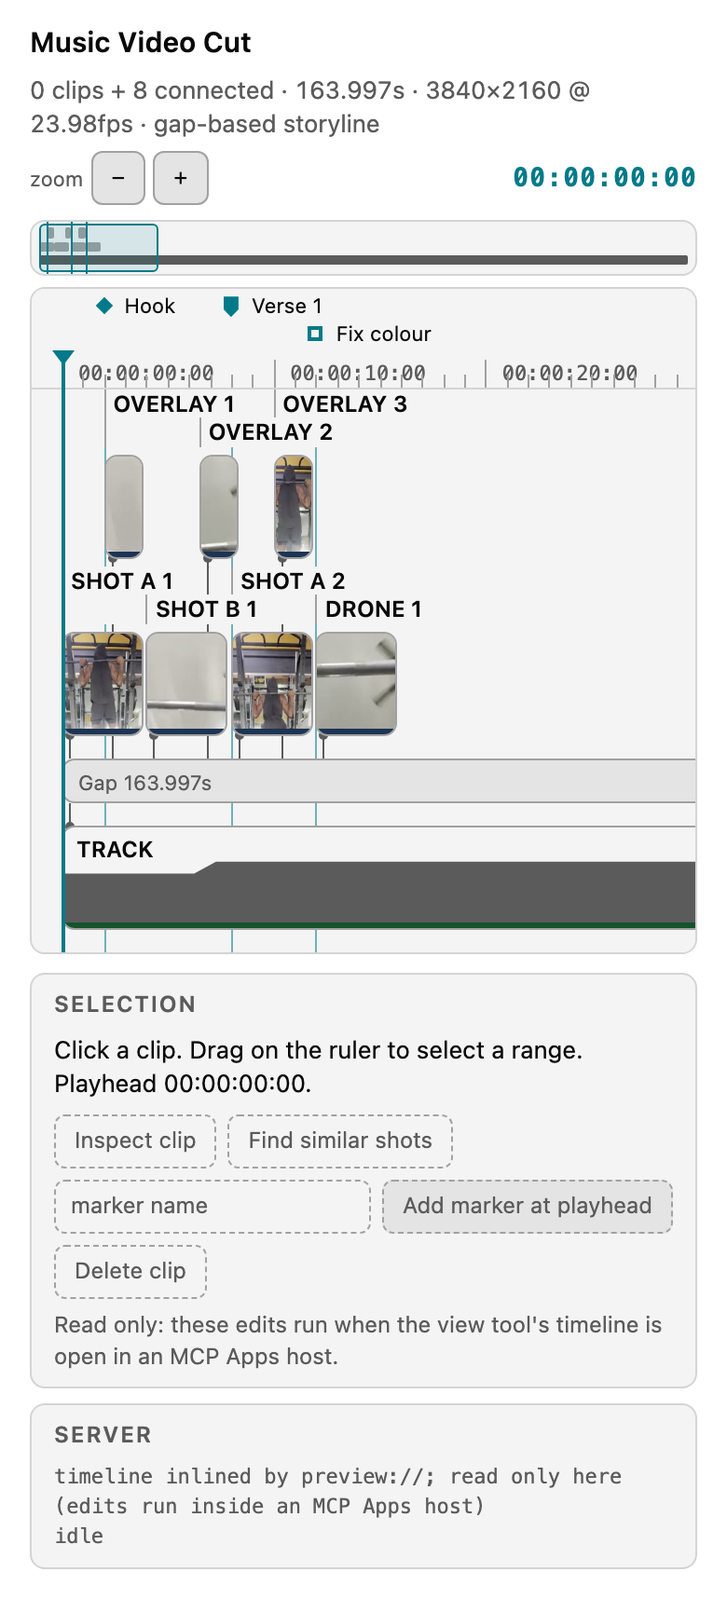
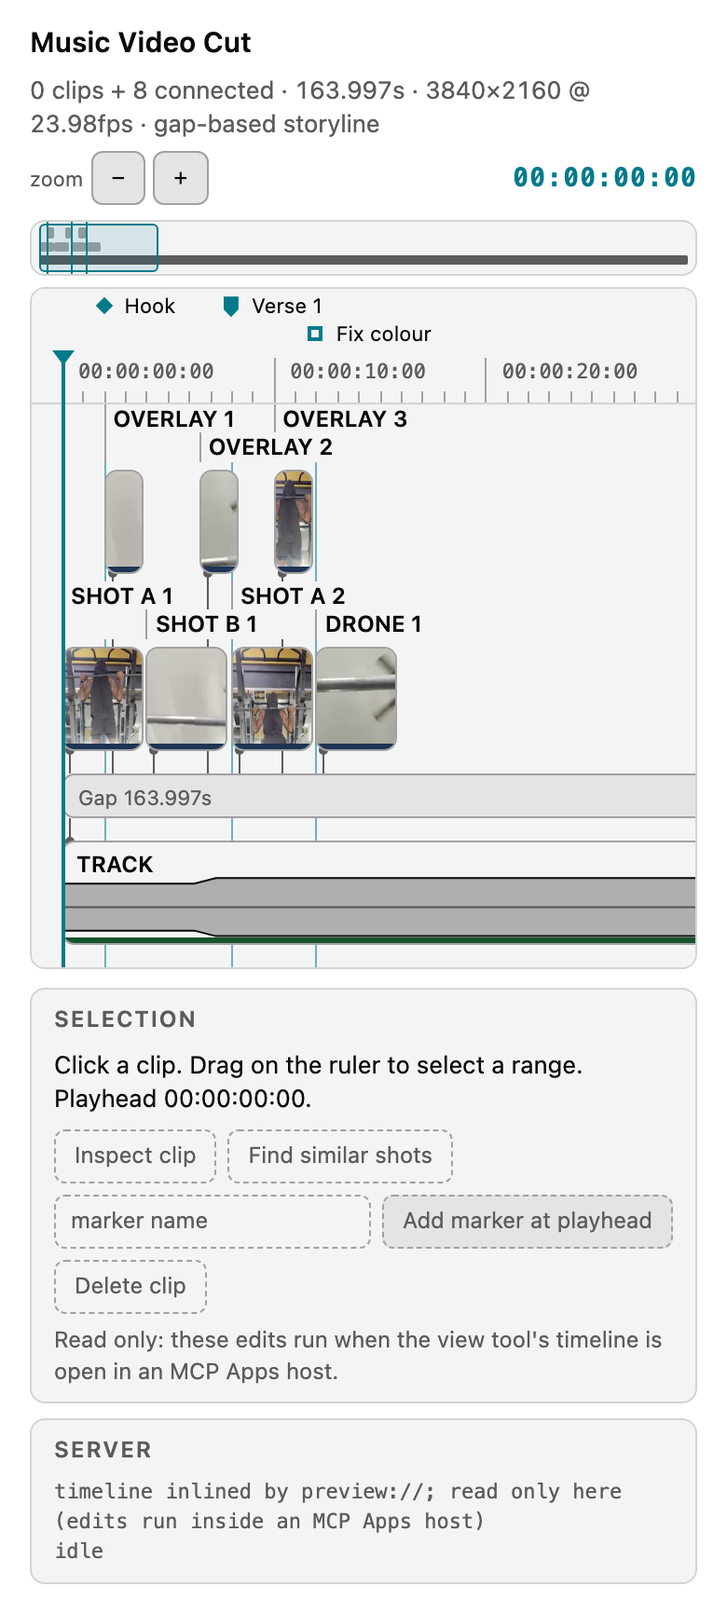
docs: 0.34 round 2, re-shot every frame, CHANGELOG, README, counts
- docs/screenshots/2026-11-15_034-*: all sixteen frames re-shot after the
  round-2 fixes from the same headless harness (CMUX_PREVIEW stubbed, paths
  rewritten to /fcp-demo, shot_guard clean); docs/assets/timeline-preview.png
  (the README's preview:// picture) re-shot too.
- CHANGELOG 0.34.0: the ruler's own tick band, a marker glyph never
  without its name, the waveform over the filmstrip's foot as an outlined
  shape; the three gates and their mutations; the empty-band gate's scope
  (clips with a picture) under Not done. The PR #44 notes stay inside
  0.34.0; no Unreleased heading is left.
- README: the app section describes the waveform and the marker rule.
- CLAUDE.md: test counts re-measured on four variants (2906 tests).

Claude-Session: https://claude.ai/code/session_01Majkfyw52xXpeyZZPHZGD2

diff --git a/CLAUDE.md b/CLAUDE.md
@@ -321,7 +321,7 @@ CI runs both on every push to main. If either fails, the commit gets an X on Git
 
 ## Testing
 
-2871 tests across 105 files (measured 2026-11-15 on v0.34.0, Final Cut Pro 12.4 present: 2863 pass / 8 skip on mcp 2.3.0 and 2860 pass / 11 skip on mcp 1.28.1, both with Pillow and Playwright's Chromium and `FCP_MCP_REQUIRE_BROWSER=1`, ffmpeg 9.0.1; 2749 pass / 13 skip on ffmpeg 6.1.6 via `scripts/test-ffmpeg6.sh`, without Playwright, where `test_app_glance.py`, `test_app_labels.py`, `test_app_motion.py` and `test_hero_assets.py` skip as modules; with `FCP_MCP_INDEX=off` 2839 pass / 32 skip, the skips being tests OF the cache). v0.34.0 adds `test_app_glance.py` (25, replaces `test_app_directions.py`; CI's `rendered-labels` job runs it): the one look on the three fixtures (gym, music video with three markers on its gap, `demo/fixtures/interview.py`) at 1440/430/390: no visible name under 4 characters, none cut, no two texts overlapping, the median clip >= 44 px, the overview spanning the whole cut, no sideways page, cyan text only on the record time, the track area >= 35% of the page at 1440, clip heights by lane type, the middle ellipsis, the tap sheet, the snap, role stripes in Final Cut's colours, waveforms, the four marker glyphs, the flash, theme tokens for preview:// (OS) and for the app in a stand-in host (host theme, OS, change notification), the payload drawn from `structuredContent`; each gate broken once inside the module (11 mutations in 10 `*_red` tests). `test_view_budget.py` (8, no browser): through the registered tools/call handler on the installed SDK, the five-clip text under 2,000 characters with no picture, the interview payload under 700,000 bytes, peaks cached in the index and identical with it off; red on the 0.33 reply, a full-rate waveform, a reader that skips the index. `test_diagnose_order.py` (4): the Issues table FAIL/WARN/INFO and a lane clip's flash at its timeline_start, each with its mutation. `test_proofs.py` gained the silence-label-inside-its-span and flash-badge gates with mutations; `test_palette.py` runs `scripts/fcp_role_colours.m` against Final Cut when it and clang are installed. v0.33.0 adds `test_media_clock.py` (62, #45): the issue's repro; every writer read back through the parser to the same FILE frames with and without a tmcd track at 30, 29.97 NDF/DF and 23.976; a clock off the sequence grid never snapped before the file; Sony/Matroska timecode found and not used; missing media and no ffprobe; a Chinese folder with a space, DTD-valid; the validator's Media clock FAIL/WARN/PASS/not-judged/not-measured rows, one probe per file; `src` on insert/connected clips; exact source starts; drop-frame labels both ways. 41 mutations, each red (2026-11-14; script kept outside the repo); suite 2692 pass / 9 skip on ffmpeg 9.0.1 and on 6.1.6, 2668 / 33 with FCP_MCP_INDEX=off, in a venv without Playwright or Pillow. v0.32.0 adds `test_proofs.py`: every gate reads the OUTPUT and compares it with a truth computed in the test (its own timecode function, the PARSED timeline): each sheet cell's record and source timecodes read back off the PNG (the phone page also at its delivered 390 px), both burn lines of all 724 frames of the burned gym proxy against the clips on screen ("Bench (L1) over Squat"), every check thumbnail against the ruler drawn under it, every ruler tick to 1 px on every row it claims, the removed frames and the cut pair, the cut's out- and in-point each read through its own band's drawn ruler, no label within 8 px of a line or mark, the padding read from the edit, every range in-out with its length, the dB waveform and its labelled scale, one clip count across three outputs, the picture-flash at 00:00:20:03, the 14 px / 1568 px / 12-cell rule, burn-before-verify failing the lane instrument on a bottom-left quarter PiP, a frame decoded by index (testsrc2) to prove the shown frame is the named one, image blocks present and under the cap through `server.call_tool` on both SDKs, no collisions, no truncation, red only for failure; it builds `demo/fixtures/gym_session.py` once per module with the journal and index off and restored after. `test_visual.py` was rewritten for the banded check and `test_preview.py` for the inlined page; `test_app_labels.py` holds the page's fit, every clip named (inside or on its rail) and the read-only controls (the clip numbers and the key went with the 0.32 look in 0.34). conftest.py stubs the cmux preview hook for every test. 158 mutations, each red (2026-11-13; 40 of them also on mcp 2.3.0); the round-4 script and logs are kept outside the repo with the gauntlet. `test_hero_assets.py` decodes the hero MP4's first frame with ffmpeg and requires the finished cut; since round 6 it also holds the composed stage (no hold over 1.5 s, a seamless loop, no dissolve between held pictures, the recorder's own coverage and type numbers), and since round 7 the read time (every caption's hold, read off the MP4's caption band), the GIF's one-frame holds, and `hero-run.json` (the close-up and the unedited recording are the same run: same notes, results and thumbnails, each file's sha256 recorded); `demo/hero/record.js` refuses the per-frame gates itself (doubled, dropped or clipped names, stretched thumbnails, coverage, measured type, caption holds, the split's frame count, the push range, a clip count that jumps without motion), and `build.py`'s `tie()` refuses two recordings that showed different runs. `test_front_door.py` pins the frozen social card and logo by sha256: changing one is a deliberate act that updates the pin. Mutation runs go with PYTHONDONTWRITEBYTECODE=1: a same-length mutation restored within the same second leaves a .pyc of the mutated source that Python still trusts. `test_app_labels.py` renders the app and the preview:// page in headless Chromium and fails on any cut or needlessly hidden label; CI's `rendered-labels` job installs the browser and sets `FCP_MCP_REQUIRE_BROWSER=1` so it cannot skip there. `test_sequence_duration.py` holds the ripple-shortens-the-sequence fix. v0.31.0 adds `test_palette.py` (every colour in a surface file is a token of `fcpxml/palette.py`, tokens are grey/cyan/red, text pairs at 4.5:1 in both modes, the rendered app and preview:// carry only tokens, three README badges on the tokens), `test_schema_budget.py` (the advertised schema, 30,714 characters, may not grow; a shrink of more than 500 asks for the budget to be lowered), `test_front_door.py` (the old tagline, name, Omni model and card version at zero outside CHANGELOG.md; one display name), `test_pypi_readme.py` (the publish-time rewrite and the check of the BUILT description), the price table's sources and 45-day age in `test_gen.py`, and `view`'s summary agreeing with `diagnose` in `test_view_group.py`; each guard was broken in the real code once and seen red (2026-11-12). v0.30.0 adds `test_preview_audio.py`: loudness measured at chosen instants of the rendered file (each clip heard at its time, a gap silent, an audio lane from its offset, -96 dB silent, a `<video>` element silent) with a mutation check that a clip moved to 0s reads as silence where it belongs. Run `scripts/test-ffmpeg6.sh` before pushing anything that touches the filtergraph: ffmpeg 6.1 is CI's build and it has already behaved differently from 9.x once. v0.29.0 adds `test_asset_clock.py`: one 8s clip written with and without a 01:00:00:00 timecode track must give the same answer from silence detect/remove, scene detect/split, transcript edits, find_shots, find_to_timeline (in-points written on the asset clock), the view payload and gen's frame; mutation-checked (9 fail with the origin ignored). v0.28.0 adds `test_preview_truth.py`: John Palchak's three preview_render cases rebuilt in Final Cut's own shapes through the real parser and ffmpeg (a transition longer than its neighbour, a PNG still alone on the spine, lanes on a trimmed parent and on a 3600s gap), plus timecoded media, a mid-timeline gap, a clip past the end of its file, an audio-only spine clip, a missing head handle, a transformed PiP, mixed clip shapes (the "Nothing was written" error, which FAILS on 0.27.2), the lane instrument run against a render without the lane, an empty render refused, drift past a frame unverified, and the fallback ladder. Each guard was mutation-checked (2026-11-02). `test_filtergraph.py` now asserts the handle model (xfade at the transition's own start, no change to total) instead of the old overlap. v0.27.1 adds `test_live_bundle_push.py` (a `.fcpxmld` push carries its library location in the copied bundle's `Info.fcpxml` with sidecars intact, the autopush shape gets a temp copy, bundle verification reads `Info.fcpxml`, the read-back refusal and the blocked-Apple-event message, each mutation-checked). v0.27.0 adds `test_effect_registry.py` (every transition uid read against Final Cut's own `Filters.bundle` plugin list when the app is installed, with a mutation check that a fabricated uid fails it) and `test_fcp_import_refusals.py` (the #31-#34 repros verbatim: handle refusals that write nothing, the validator's handle check including an off-centre transition, rough-cut transitions DTD-valid and skipped-and-reported without media, assets copied whole with their format, anchored offsets on the parent's clock read back through the parser). v0.26.0 adds `test_timeline_app.py` (the `ui://` resource's MIME type through the real handler on both SDKs, `_meta.ui.resourceUri` on the wire, the payload round-tripping both fixtures as Fractions, marker clocks, word clipping, thumbnail bounds, no external URLs in the shell), `test_view_group.py`, `test_gen.py` (prices, the gate and its refusals, the key guards with mutation checks, both adapters against a fake transport, the probe on synthesized media, the insert on a DTD-valid fixture validated with xmllint when the DTD is present), `test_gen_group.py` (end to end with a fake provider: journal rows, redaction with its mutation check, sandboxed writes) and `test_project_guard.py` (mismatch refuses before the review gate, the sha256 footer, `analyze_timeline` and `history` report it, mutation check). v0.24.0 adds `test_gap_reporting.py` (the reporting tools and the preview on a gap-based edit, each with a spine-based control, plus the sub-frame silence floor). v0.23.0 adds `test_gap_multicam.py` (issue #23: mc-clip/caption under a gap spine, `<media>` angle resolution via `mc-source`, timeline_start against the gap's local clock, the `media_clips()` view, and that `detect_media_silence`/`detect_scenes` open the angle files). v0.20.0 adds transition and lane coverage to `test_filtergraph.py` (xfade placement, the unplaceable/missing/occupied/shortened reports, the crossfade-shifted overlay window, lane stacking order) and to `test_render.py` (real ffmpeg accepts both chains; the overlaid frame is compared against the same frame of a spine-only render, so a graph that composites nothing fails). v0.19.0 adds `test_journal.py` + `test_journal_wiring.py` (hash-checked undo, never-deletes, one ledger per folder), `test_review_gate.py`, `test_organize.py` + `test_organize_group.py` (DTD order of inserted `<keyword>`/`<rating>`, organize_auto never computes), `test_diversity_constraint.py` (with its mutation check), `test_find.py`, `test_vlm.py` (fake `mlx_vlm` records the env at import; sockets patched to raise) and `test_find_group.py` (never transcribes, never downloads, live captions stored once). v0.18.0 adds `test_index.py` (schema, invalidation on a touched source, corrupt-file rebuild, dir mode 700), `test_index_wiring.py` (second call skips ffmpeg/whisper; index off hits them every time), `test_index_group.py`, `test_progress.py` (both SDKs), `test_scenes.py` + `test_scenes_group.py` (synthesised colour-bar clips; real PySceneDetect when installed), `test_transcript_pack.py` + `test_transcript_pack_handler.py`, `test_transcribe_scribe.py` (urlopen patched throughout; the key-leak guard is mutation-checked), and `test_version.py`. Beyond the pre-existing suites, v0.17.0 added: `test_filtergraph.py` (Timeline -> ffmpeg graph, exact Fractions at NTSC rates, the Clip/.start vs ConnectedClip/.offset distinction, transition substitution reporting), `test_render.py` (proxy render plus the artifact duration read-back and its mutation check), `test_visual.py` (filmstrip+waveform from source media, silent-source fallback, and the mutation check that caught the invisible white-on-white waveform), `test_watchfolder.py` (export detection, content digesting, bundle handling), `test_bridges.py` (loopback-only probing, session caching, describe() honesty), `test_preview_group.py` and `test_watch_group.py` (MCP wiring, UNVERIFIED labelling), `test_edl_import.py` (the real video-use schema, round-tripped against the literal from their own test file), `test_autopush.py`, and `test_tool_seam.py` (the tools/ registry, the merge guard, and the server binding). Tests use `examples/sample.fcpxml` and `examples/music-video.fcpxml` as fixture data plus inline XML and synthesised ffmpeg media. Tests create temp files and clean up after.
+2906 tests across 105 files (measured 2026-11-15 on v0.34.0 after the gatekeeper's round 2, Final Cut Pro 12.4 present: 2898 pass / 8 skip on mcp 2.3.0 and 2895 pass / 11 skip on mcp 1.28.1, both with Pillow and Playwright's Chromium and `FCP_MCP_REQUIRE_BROWSER=1`, ffmpeg 9.0.1; 2749 pass / 13 skip on ffmpeg 6.1.6 via `scripts/test-ffmpeg6.sh`, without Playwright, where `test_app_glance.py`, `test_app_labels.py`, `test_app_motion.py` and `test_hero_assets.py` skip as modules; with `FCP_MCP_INDEX=off` 2874 pass / 32 skip, the skips being tests OF the cache). v0.34.0 adds `test_app_glance.py` (32, replaces `test_app_directions.py`; CI's `rendered-labels` job runs it): the one look on the three fixtures (gym, music video with three markers on its gap, `demo/fixtures/interview.py`) at 1440/430/390: no visible name under 4 characters, none cut, no two texts overlapping, the median clip >= 44 px, the overview spanning the whole cut, no sideways page, cyan text only on the record time, the track area >= 35% of the page at 1440, clip heights by lane type, the middle ellipsis, the tap sheet, the snap, role stripes in Final Cut's colours, waveforms, the four marker glyphs, the flash, theme tokens for preview:// (OS) and for the app in a stand-in host (host theme, OS, change notification), the payload drawn from `structuredContent`; and (round 2) every ruler time 2 px clear of every tick, every visible marker glyph with its whole name, no band of one flat colour across a picture clip's body; each gate broken once inside the module (14 mutations in 13 `*_red` tests; the flash test is not one). `test_view_budget.py` (8, no browser): through the registered tools/call handler on the installed SDK, the five-clip text under 2,000 characters with no picture, the interview payload under 700,000 bytes, peaks cached in the index and identical with it off; red on the 0.33 reply, a full-rate waveform, a reader that skips the index. `test_diagnose_order.py` (4): the Issues table FAIL/WARN/INFO and a lane clip's flash at its timeline_start, each with its mutation. `test_proofs.py` gained the silence-label-inside-its-span and flash-badge gates with mutations; `test_palette.py` runs `scripts/fcp_role_colours.m` against Final Cut when it and clang are installed. v0.33.0 adds `test_media_clock.py` (62, #45): the issue's repro; every writer read back through the parser to the same FILE frames with and without a tmcd track at 30, 29.97 NDF/DF and 23.976; a clock off the sequence grid never snapped before the file; Sony/Matroska timecode found and not used; missing media and no ffprobe; a Chinese folder with a space, DTD-valid; the validator's Media clock FAIL/WARN/PASS/not-judged/not-measured rows, one probe per file; `src` on insert/connected clips; exact source starts; drop-frame labels both ways. 41 mutations, each red (2026-11-14; script kept outside the repo); suite 2692 pass / 9 skip on ffmpeg 9.0.1 and on 6.1.6, 2668 / 33 with FCP_MCP_INDEX=off, in a venv without Playwright or Pillow. v0.32.0 adds `test_proofs.py`: every gate reads the OUTPUT and compares it with a truth computed in the test (its own timecode function, the PARSED timeline): each sheet cell's record and source timecodes read back off the PNG (the phone page also at its delivered 390 px), both burn lines of all 724 frames of the burned gym proxy against the clips on screen ("Bench (L1) over Squat"), every check thumbnail against the ruler drawn under it, every ruler tick to 1 px on every row it claims, the removed frames and the cut pair, the cut's out- and in-point each read through its own band's drawn ruler, no label within 8 px of a line or mark, the padding read from the edit, every range in-out with its length, the dB waveform and its labelled scale, one clip count across three outputs, the picture-flash at 00:00:20:03, the 14 px / 1568 px / 12-cell rule, burn-before-verify failing the lane instrument on a bottom-left quarter PiP, a frame decoded by index (testsrc2) to prove the shown frame is the named one, image blocks present and under the cap through `server.call_tool` on both SDKs, no collisions, no truncation, red only for failure; it builds `demo/fixtures/gym_session.py` once per module with the journal and index off and restored after. `test_visual.py` was rewritten for the banded check and `test_preview.py` for the inlined page; `test_app_labels.py` holds the page's fit, every clip named (inside or on its rail) and the read-only controls (the clip numbers and the key went with the 0.32 look in 0.34). conftest.py stubs the cmux preview hook for every test. 158 mutations, each red (2026-11-13; 40 of them also on mcp 2.3.0); the round-4 script and logs are kept outside the repo with the gauntlet. `test_hero_assets.py` decodes the hero MP4's first frame with ffmpeg and requires the finished cut; since round 6 it also holds the composed stage (no hold over 1.5 s, a seamless loop, no dissolve between held pictures, the recorder's own coverage and type numbers), and since round 7 the read time (every caption's hold, read off the MP4's caption band), the GIF's one-frame holds, and `hero-run.json` (the close-up and the unedited recording are the same run: same notes, results and thumbnails, each file's sha256 recorded); `demo/hero/record.js` refuses the per-frame gates itself (doubled, dropped or clipped names, stretched thumbnails, coverage, measured type, caption holds, the split's frame count, the push range, a clip count that jumps without motion), and `build.py`'s `tie()` refuses two recordings that showed different runs. `test_front_door.py` pins the frozen social card and logo by sha256: changing one is a deliberate act that updates the pin. Mutation runs go with PYTHONDONTWRITEBYTECODE=1: a same-length mutation restored within the same second leaves a .pyc of the mutated source that Python still trusts. `test_app_labels.py` renders the app and the preview:// page in headless Chromium and fails on any cut or needlessly hidden label; CI's `rendered-labels` job installs the browser and sets `FCP_MCP_REQUIRE_BROWSER=1` so it cannot skip there. `test_sequence_duration.py` holds the ripple-shortens-the-sequence fix. v0.31.0 adds `test_palette.py` (every colour in a surface file is a token of `fcpxml/palette.py`, tokens are grey/cyan/red, text pairs at 4.5:1 in both modes, the rendered app and preview:// carry only tokens, three README badges on the tokens), `test_schema_budget.py` (the advertised schema, 30,714 characters, may not grow; a shrink of more than 500 asks for the budget to be lowered), `test_front_door.py` (the old tagline, name, Omni model and card version at zero outside CHANGELOG.md; one display name), `test_pypi_readme.py` (the publish-time rewrite and the check of the BUILT description), the price table's sources and 45-day age in `test_gen.py`, and `view`'s summary agreeing with `diagnose` in `test_view_group.py`; each guard was broken in the real code once and seen red (2026-11-12). v0.30.0 adds `test_preview_audio.py`: loudness measured at chosen instants of the rendered file (each clip heard at its time, a gap silent, an audio lane from its offset, -96 dB silent, a `<video>` element silent) with a mutation check that a clip moved to 0s reads as silence where it belongs. Run `scripts/test-ffmpeg6.sh` before pushing anything that touches the filtergraph: ffmpeg 6.1 is CI's build and it has already behaved differently from 9.x once. v0.29.0 adds `test_asset_clock.py`: one 8s clip written with and without a 01:00:00:00 timecode track must give the same answer from silence detect/remove, scene detect/split, transcript edits, find_shots, find_to_timeline (in-points written on the asset clock), the view payload and gen's frame; mutation-checked (9 fail with the origin ignored). v0.28.0 adds `test_preview_truth.py`: John Palchak's three preview_render cases rebuilt in Final Cut's own shapes through the real parser and ffmpeg (a transition longer than its neighbour, a PNG still alone on the spine, lanes on a trimmed parent and on a 3600s gap), plus timecoded media, a mid-timeline gap, a clip past the end of its file, an audio-only spine clip, a missing head handle, a transformed PiP, mixed clip shapes (the "Nothing was written" error, which FAILS on 0.27.2), the lane instrument run against a render without the lane, an empty render refused, drift past a frame unverified, and the fallback ladder. Each guard was mutation-checked (2026-11-02). `test_filtergraph.py` now asserts the handle model (xfade at the transition's own start, no change to total) instead of the old overlap. v0.27.1 adds `test_live_bundle_push.py` (a `.fcpxmld` push carries its library location in the copied bundle's `Info.fcpxml` with sidecars intact, the autopush shape gets a temp copy, bundle verification reads `Info.fcpxml`, the read-back refusal and the blocked-Apple-event message, each mutation-checked). v0.27.0 adds `test_effect_registry.py` (every transition uid read against Final Cut's own `Filters.bundle` plugin list when the app is installed, with a mutation check that a fabricated uid fails it) and `test_fcp_import_refusals.py` (the #31-#34 repros verbatim: handle refusals that write nothing, the validator's handle check including an off-centre transition, rough-cut transitions DTD-valid and skipped-and-reported without media, assets copied whole with their format, anchored offsets on the parent's clock read back through the parser). v0.26.0 adds `test_timeline_app.py` (the `ui://` resource's MIME type through the real handler on both SDKs, `_meta.ui.resourceUri` on the wire, the payload round-tripping both fixtures as Fractions, marker clocks, word clipping, thumbnail bounds, no external URLs in the shell), `test_view_group.py`, `test_gen.py` (prices, the gate and its refusals, the key guards with mutation checks, both adapters against a fake transport, the probe on synthesized media, the insert on a DTD-valid fixture validated with xmllint when the DTD is present), `test_gen_group.py` (end to end with a fake provider: journal rows, redaction with its mutation check, sandboxed writes) and `test_project_guard.py` (mismatch refuses before the review gate, the sha256 footer, `analyze_timeline` and `history` report it, mutation check). v0.24.0 adds `test_gap_reporting.py` (the reporting tools and the preview on a gap-based edit, each with a spine-based control, plus the sub-frame silence floor). v0.23.0 adds `test_gap_multicam.py` (issue #23: mc-clip/caption under a gap spine, `<media>` angle resolution via `mc-source`, timeline_start against the gap's local clock, the `media_clips()` view, and that `detect_media_silence`/`detect_scenes` open the angle files). v0.20.0 adds transition and lane coverage to `test_filtergraph.py` (xfade placement, the unplaceable/missing/occupied/shortened reports, the crossfade-shifted overlay window, lane stacking order) and to `test_render.py` (real ffmpeg accepts both chains; the overlaid frame is compared against the same frame of a spine-only render, so a graph that composites nothing fails). v0.19.0 adds `test_journal.py` + `test_journal_wiring.py` (hash-checked undo, never-deletes, one ledger per folder), `test_review_gate.py`, `test_organize.py` + `test_organize_group.py` (DTD order of inserted `<keyword>`/`<rating>`, organize_auto never computes), `test_diversity_constraint.py` (with its mutation check), `test_find.py`, `test_vlm.py` (fake `mlx_vlm` records the env at import; sockets patched to raise) and `test_find_group.py` (never transcribes, never downloads, live captions stored once). v0.18.0 adds `test_index.py` (schema, invalidation on a touched source, corrupt-file rebuild, dir mode 700), `test_index_wiring.py` (second call skips ffmpeg/whisper; index off hits them every time), `test_index_group.py`, `test_progress.py` (both SDKs), `test_scenes.py` + `test_scenes_group.py` (synthesised colour-bar clips; real PySceneDetect when installed), `test_transcript_pack.py` + `test_transcript_pack_handler.py`, `test_transcribe_scribe.py` (urlopen patched throughout; the key-leak guard is mutation-checked), and `test_version.py`. Beyond the pre-existing suites, v0.17.0 added: `test_filtergraph.py` (Timeline -> ffmpeg graph, exact Fractions at NTSC rates, the Clip/.start vs ConnectedClip/.offset distinction, transition substitution reporting), `test_render.py` (proxy render plus the artifact duration read-back and its mutation check), `test_visual.py` (filmstrip+waveform from source media, silent-source fallback, and the mutation check that caught the invisible white-on-white waveform), `test_watchfolder.py` (export detection, content digesting, bundle handling), `test_bridges.py` (loopback-only probing, session caching, describe() honesty), `test_preview_group.py` and `test_watch_group.py` (MCP wiring, UNVERIFIED labelling), `test_edl_import.py` (the real video-use schema, round-tripped against the literal from their own test file), `test_autopush.py`, and `test_tool_seam.py` (the tools/ registry, the merge guard, and the server binding). Tests use `examples/sample.fcpxml` and `examples/music-video.fcpxml` as fixture data plus inline XML and synthesised ffmpeg media. Tests create temp files and clean up after.
 
 ## Releasing — the tag is not the release
 

diff --git a/CHANGELOG.md b/CHANGELOG.md
@@ -56,15 +56,25 @@ lane clip) and what the parser READS from Final Cut's own files (below).
   `itemBackgroundColor`, the clip body in Final Cut's own timeline). They are
   the one documented exception to grey/cyan/red in `fcpxml/palette.py`, for
   the stripe only. The 0.33 values were set by eye.
-- **Sound.** A waveform under every clip with sound (the filmstrip above
-  it), from the file's peak envelope: measured once per file with ffmpeg
+- **Sound.** A waveform on every clip with sound, from the file's peak
+  envelope, mirrored round a centre line and outlined at its real level, so
+  a flat tone reads as a flat waveform and never as a filled box; on a clip
+  with a picture it lies over the foot of the filmstrip on a shade that
+  deepens downward, nothing between them. Measured once per file with ffmpeg
   (10 levels a second, -48..0 dBFS), cached in the index as analysis kind
   `peaks@10/s`, and sent as a short array (4 points a second, at most 160 a
   clip). `FCP_MCP_INDEX=off` measures every time and gives the same arrays.
   `view_timeline` takes `waveforms=false` to skip it.
 - **Markers.** Separate glyphs for standard, chapter, to-do and completed
-  to-do markers; with a gap's markers read (below), `view`'s summary counts
-  the real total on a gap-based edit ("3 markers", where it said 0).
+  to-do markers. A glyph never shows without its whole name: each marker
+  (after any flash flag) takes the first of row 0 or row 1 with its name
+  right of the glyph, then left of it, that is in view and clear; one with
+  no such place is not drawn on the ruler, glyph and name both, and the
+  overview keeps its tick. With a gap's markers read (below), `view`'s
+  summary counts the real total on a gap-based edit ("3 markers", where it
+  said 0).
+- **The ruler** stacks the two marker rows, the time row, and the frame
+  ticks in their own band under it: no time touches a tick.
 - **Theme.** The app follows the host's `hostContext.theme` (and a
   `host-context-changed` notification), then `prefers-color-scheme`;
   `preview://` follows `prefers-color-scheme`. The computed background is
@@ -221,6 +231,16 @@ lane clip) and what the parser READS from Final Cut's own files (below).
   view, the 0.32 fit (whole cut, no median rule), 36 px clips, the tap
   sheet never opened, SNAP_PX 0, the host-theme hook removed, the
   prefers-color-scheme block removed, `structuredContent` ignored.
+- `tests/test_app_glance.py`, round 2 (the gatekeeper's frame check of the
+  first build): every ruler time 2 px clear of every tick, on the three
+  fixtures at 1440, 430 and 390 in both themes (red with the first build's
+  ruler, where the frame ticks rose into a 15 px time row); every visible
+  marker glyph with its visible, whole name, on the three fixtures at every
+  width, and the interview's "Colour matched" turned to its glyph's left at
+  390 (red with names hidden and glyphs kept); no band of 4 or more rows of
+  one flat colour across a picture clip's body on the gym cut at 1440 and
+  390 in both themes (red with the first build's clip: the filmstrip
+  stopping 24 px short and the waveform on the panel colour under it).
 - `tests/test_view_budget.py` (0.34, no browser): on the wire of the
   installed SDK (1.x and 2.x run it), the five-clip text under 2,000
   characters with no picture in it and every clip named; the interview's
@@ -314,6 +334,9 @@ lane clip) and what the parser READS from Final Cut's own files (below).
   colour index the FCPXML does not carry).
 - The role stripe uses a clip's main role; a clip whose picture and sound
   have different roles shows its picture's.
+- The empty-band gate covers clips with a picture. A clip with sound and no
+  picture shows its clip colour above and below a quiet waveform, as Final
+  Cut does; its waveform is the same outlined shape.
 - A gap's `<keyword>` and `<rating>` are still not read: `Timeline` has no
   field for them, so reading them is a model change, not a parser fix.
 - `<audition>` as an anchored item or inside a connected storyline is not

diff --git a/README.md b/README.md
@@ -55,7 +55,7 @@ inside a chat client. [MP4](docs/assets/hero-watch-claude-cut.mp4),
 
 **See it.** `view` returns the timeline as exact rational-time JSON, and a
 host with MCP Apps draws it inline, like Final Cut's timeline: an overview of
-the whole cut, filmstrips over waveforms, Final Cut's role colours, a glyph
+the whole cut, filmstrips with their waveforms, Final Cut's role colours, a glyph
 per marker kind, a playhead that snaps to cuts, buttons that call the other
 tools.
 
@@ -645,10 +645,12 @@ What it shows (one look since 0.34, open like Final Cut's timeline): an
 overview bar with the whole cut and a box round the part in view; every
 lane (the storyline, connected lanes above, sound lanes below, each
 connected clip with its line to the storyline); clips 88 px tall (titles
-and sound 72 px, every clip 56 px on a phone) with a filmstrip over the
-waveform of their sound and a 3 px stripe in Final Cut 12.4's own role
-colour (read from the installed app by `scripts/fcp_role_colours.m`); a
-glyph per marker kind (standard, chapter, to-do, completed); gaps;
+and sound 72 px, every clip 56 px on a phone) with a filmstrip and, over
+its foot, the waveform of their sound (mirrored round a centre line and
+outlined at its real level, so a flat tone looks flat), and a 3 px stripe in
+Final Cut 12.4's own role colour (read from the installed app by
+`scripts/fcp_role_colours.m`); a glyph per marker kind (standard, chapter,
+to-do, completed), never without its whole name; gaps;
 dissolves; a flash frame in red, the only red; a timecode ruler with frame
 ticks and a playhead that snaps to cuts. Names are whole, cut in the middle
 so the ending survives, or on their lane's rail, and never 1-3 characters;
